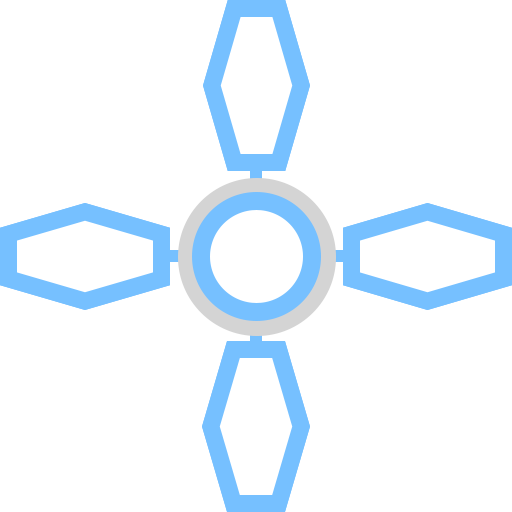
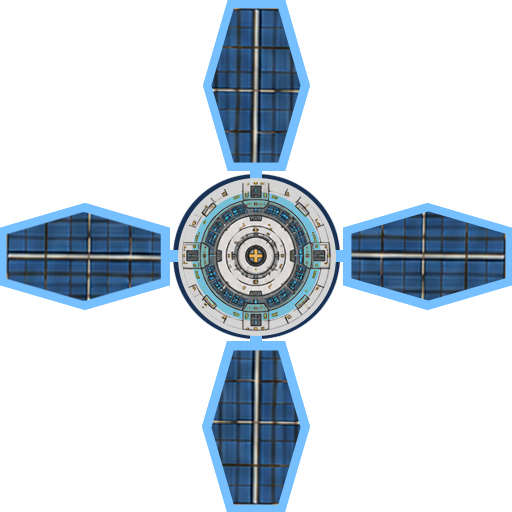
added new graphics, fixed bugs

Changed region(s): [[0.0, 0.0, 1.0, 1.0]]

diff --git a/src/game.py b/src/game.py
@@ -16,8 +16,10 @@ BG_COLOR = (8, 12, 24)
 TEXT_COLOR = (230, 238, 255)
 MUTED_TEXT = (138, 150, 178)
 ACCENT = (72, 209, 204)
+LOCKED_SELECTED = (245, 203, 92)
 STARTING_LIVES = 3
 PLAYER_SHIELD_MAX_CHARGES = 3
+DEFAULT_POD = {"color": "blue", "type": "standard", "upgrades": []}
 
 BASE_DIR = Path(__file__).resolve().parent
 PLAYERS_PATH = BASE_DIR.parent / "players.json"
@@ -38,6 +40,22 @@ LESSONS = [
 
 def draw_text(surface, text, font, color, pos):
     render_inline_text(surface, text, font, color, pos)
+
+
+def draw_scrollbar(surface, track_rect, total_items, visible_items, first_visible):
+    if total_items <= visible_items:
+        return
+
+    pygame.draw.rect(surface, (18, 27, 48), track_rect, border_radius=4)
+    pygame.draw.rect(surface, (43, 57, 89), track_rect, 1, border_radius=4)
+
+    visible_ratio = visible_items / total_items
+    thumb_height = max(28, int(track_rect.height * visible_ratio))
+    max_first_visible = max(1, total_items - visible_items)
+    travel = track_rect.height - thumb_height
+    thumb_y = track_rect.y + int(travel * first_visible / max_first_visible)
+    thumb_rect = pygame.Rect(track_rect.x + 2, thumb_y, track_rect.width - 4, thumb_height)
+    pygame.draw.rect(surface, ACCENT, thumb_rect, border_radius=4)
 
 
 def load_players():
@@ -74,12 +92,16 @@ def load_players():
         if not isinstance(shield_charges, int):
             shield_charges = 0
         players.append(
-            {
-                "name": name[:24],
-                "completed_lessons": completed_lessons,
-                "lives": max(1, lives),
-                "shield_charges": max(0, min(PLAYER_SHIELD_MAX_CHARGES, shield_charges)),
-            }
+            create_player_record(
+                name[:24],
+                completed_lessons=completed_lessons,
+                lives=max(1, lives),
+                shield_charges=max(0, min(PLAYER_SHIELD_MAX_CHARGES, shield_charges)),
+                lifetime_score=item.get("lifetime_score", 0),
+                achievements=item.get("achievements", []),
+                credits=item.get("credits", 0),
+                pod=item.get("pod", {}),
+            )
         )
         seen_names.add(name.lower())
     return players
@@ -87,6 +109,50 @@ def load_players():
 
 def save_players(players):
     PLAYERS_PATH.write_text(json.dumps(players, indent=2), encoding="utf-8")
+
+
+def create_player_record(
+    name,
+    completed_lessons=None,
+    lives=STARTING_LIVES,
+    shield_charges=0,
+    lifetime_score=0,
+    achievements=None,
+    credits=0,
+    pod=None,
+):
+    if not isinstance(lifetime_score, int):
+        lifetime_score = 0
+    if not isinstance(credits, int):
+        credits = 0
+    if not isinstance(achievements, list):
+        achievements = []
+
+    pod = pod if isinstance(pod, dict) else {}
+    pod_color = pod.get("color", DEFAULT_POD["color"])
+    pod_type = pod.get("type", DEFAULT_POD["type"])
+    pod_upgrades = pod.get("upgrades", [])
+    if not isinstance(pod_color, str) or not pod_color.strip():
+        pod_color = DEFAULT_POD["color"]
+    if not isinstance(pod_type, str) or not pod_type.strip():
+        pod_type = DEFAULT_POD["type"]
+    if not isinstance(pod_upgrades, list):
+        pod_upgrades = []
+
+    return {
+        "name": name,
+        "completed_lessons": completed_lessons or [],
+        "lives": max(1, lives),
+        "shield_charges": max(0, min(PLAYER_SHIELD_MAX_CHARGES, shield_charges)),
+        "lifetime_score": max(0, lifetime_score),
+        "achievements": achievements,
+        "credits": max(0, credits),
+        "pod": {
+            "color": pod_color,
+            "type": pod_type,
+            "upgrades": pod_upgrades,
+        },
+    }
 
 
 def clean_player_name(name):
@@ -177,7 +243,7 @@ def create_player_screen(screen, clock, players):
                     elif any(player["name"].lower() == cleaned.lower() for player in players):
                         message = "That player already exists."
                     else:
-                        player = {"name": cleaned, "completed_lessons": [], "lives": STARTING_LIVES, "shield_charges": 0}
+                        player = create_player_record(cleaned)
                         players.append(player)
                         save_players(players)
                         return player
@@ -364,6 +430,8 @@ def menu_loop(screen, clock, players, player):
         item_gap = 110
         visible_rows = max(1, (height - list_top - 92) // item_gap)
         first_visible = max(0, min(selected - visible_rows + 1, len(LESSONS) - visible_rows))
+        list_height = visible_rows * item_gap - 24
+        list_width = content_width - 24 if len(LESSONS) > visible_rows else content_width
         for index, lesson in enumerate(LESSONS):
             if not first_visible <= index < first_visible + visible_rows:
                 continue
@@ -372,15 +440,30 @@ def menu_loop(screen, clock, players, player):
             is_locked = index >= unlocked_count
             card_color = (20, 32, 58) if is_selected else (13, 22, 42)
             border_color = ACCENT if is_selected else (43, 57, 89)
-            if is_locked:
+            border_width = 2
+            title_color = TEXT_COLOR
+            summary_color = MUTED_TEXT
+            if is_locked and is_selected:
+                card_color = (38, 31, 27)
+                border_color = LOCKED_SELECTED
+                border_width = 3
+                title_color = LOCKED_SELECTED
+                summary_color = (231, 194, 111)
+            elif is_locked:
                 card_color = (11, 16, 30)
                 border_color = (35, 42, 62)
-            pygame.draw.rect(screen, card_color, (content_left, y - 22, content_width, 86), border_radius=8)
-            pygame.draw.rect(screen, border_color, (content_left, y - 22, content_width, 86), 2, border_radius=8)
-            title_color = MUTED_TEXT if is_locked else TEXT_COLOR
+                title_color = MUTED_TEXT
+            card_rect = pygame.Rect(content_left, y - 22, list_width, 86)
+            pygame.draw.rect(screen, card_color, card_rect, border_radius=8)
+            pygame.draw.rect(screen, border_color, card_rect, border_width, border_radius=8)
+            if is_selected:
+                pygame.draw.rect(screen, border_color, (card_rect.x, card_rect.y + 10, 5, card_rect.height - 20), border_radius=3)
             summary = "Locked: complete the previous lesson first." if is_locked else lesson["summary"]
             draw_text(screen, lesson["title"], item_font, title_color, (x, y - 4))
-            draw_text(screen, summary, body_font, MUTED_TEXT, (x, y + 36))
+            draw_text(screen, summary, body_font, summary_color, (x, y + 36))
+
+        scrollbar_rect = pygame.Rect(content_left + content_width - 12, list_top - 22, 8, list_height)
+        draw_scrollbar(screen, scrollbar_rect, len(LESSONS), visible_rows, first_visible)
 
         draw_text(screen, "Esc: Players  |  F11: Max size  |  Q: Quit", small_font, MUTED_TEXT, (text_left + 4, height - 58))
         pygame.display.flip()

diff --git a/src/lessons/mission_engine.py b/src/lessons/mission_engine.py
@@ -25,15 +25,16 @@ SHOT_TRAIL_COLOR = (92, 190, 255)
 SHIP_COLOR = (112, 170, 255)
 EXPLOSION_COLOR = (255, 218, 125)
 POD_ROTATION_SECONDS = 15
-POD_IMAGE_SIZE = 163
-PLAYER_COLLISION_RADIUS = 29
-TURRET_IMAGE_SIZE = 86
+POD_IMAGE_SIZE = 204
+PLAYER_COLLISION_RADIUS = 36
+TURRET_IMAGE_SIZE = 108
 DRONE_PIXELS_PER_ROTATION = 60
 TURRET_TURN_SPEED = 13
 TURRET_FIRE_ANGLE_THRESHOLD = 0.08
 TURRET_FIRE_DELAY_MS = 90
 SHOT_IMAGE_SIZE = 22
 SHOT_TRAIL_INTERVAL_MS = 18
+SHOT_ROTATIONS_PER_SECOND = 2
 
 START_SPAWN_INTERVAL_MS = 6000
 MIN_SPAWN_INTERVAL_MS = 2000
@@ -126,6 +127,7 @@ class Bullet:
     vel: pygame.Vector2
     target: Drone | None
     next_trail_time: int = 0
+    rotation: float = 0
 
 
 @dataclass
@@ -135,6 +137,7 @@ class MegaShot:
     charge_level: int
     target: object | None
     radius: int = 10
+    rotation: float = 0
 
 
 @dataclass
@@ -845,12 +848,26 @@ def draw_shot_trails(screen, shot_trails):
 def draw_bullet(screen, bullet, shot_image=None):
     if shot_image is not None:
         image = shot_image
+        angle = math.degrees(bullet.rotation)
         if bullet.vel.length_squared() > 0:
-            angle = math.degrees(math.atan2(-bullet.vel.y, bullet.vel.x))
-            image = pygame.transform.rotozoom(shot_image, angle, 1.0)
+            angle += math.degrees(math.atan2(-bullet.vel.y, bullet.vel.x))
+        image = pygame.transform.rotozoom(shot_image, angle, 1.0)
         screen.blit(image, image.get_rect(center=bullet.pos))
     else:
         pygame.draw.circle(screen, BULLET_COLOR, bullet.pos, 5)
+
+
+def draw_mega_shot(screen, mega_shot, shot_image=None):
+    if shot_image is not None:
+        angle = math.degrees(mega_shot.rotation)
+        if mega_shot.vel.length_squared() > 0:
+            angle += math.degrees(math.atan2(-mega_shot.vel.y, mega_shot.vel.x))
+        scale = max(1.0, (mega_shot.radius * 2) / SHOT_IMAGE_SIZE)
+        image = pygame.transform.rotozoom(shot_image, angle, scale)
+        screen.blit(image, image.get_rect(center=mega_shot.pos))
+    else:
+        pygame.draw.circle(screen, MEGA_SHOT_COLOR, mega_shot.pos, mega_shot.radius)
+        pygame.draw.circle(screen, (255, 255, 255), mega_shot.pos, mega_shot.radius, 2)
 
 
 def draw_ship(screen, turret_angle, pod_rotation, turret_image=None, pod_image=None):
@@ -1274,12 +1291,22 @@ class MissionEngine:
         self.player["lives"] = max(1, self.lives)
         self.player["shield_charges"] = max(0, min(PLAYER_SHIELD_MAX_CHARGES, self.shield_charges))
 
+    def _add_lifetime_score(self):
+        if self.player is None:
+            return
+        lifetime_score = self.player.get("lifetime_score", 0)
+        if not isinstance(lifetime_score, int):
+            lifetime_score = 0
+        self.player["lifetime_score"] = max(0, lifetime_score) + self.score
+
     def _finish(self, result):
         self._save_player_resources()
         return result
 
     def _show_end_screen(self, won):
         self._save_player_resources()
+        if won:
+            self._add_lifetime_score()
         return draw_end_screen(self.screen, self.clock, won, self.destroyed, self.drone_target, self.score)
 
     def _begin_frame(self):
@@ -1362,8 +1389,7 @@ class MissionEngine:
             draw_bullet(self.screen, bullet, self.shot_image)
 
         for mega_shot in self.mega_shots:
-            pygame.draw.circle(self.screen, MEGA_SHOT_COLOR, mega_shot.pos, mega_shot.radius)
-            pygame.draw.circle(self.screen, (255, 255, 255), mega_shot.pos, mega_shot.radius, 2)
+            draw_mega_shot(self.screen, mega_shot, self.shot_image)
 
         draw_power_up(self.screen, self.power_up, now)
         draw_final_boss(self.screen, self.final_boss, self.final_boss_image)
@@ -1500,12 +1526,14 @@ class MissionEngine:
                     if event.key == pygame.K_F11:
                         self.screen = toggle_fullscreen()
                     if event.key == pygame.K_ESCAPE:
+                        pygame.mouse.set_visible(True)
                         if self.bg_music_channel is not None:
                             self.bg_music_channel.pause()
                         if pygame.mixer.get_init():
                             pygame.mixer.music.pause()
                         pause_result = pause_menu(self.screen, self.clock)
                         if pause_result == "resume":
+                            pygame.mouse.set_visible(False)
                             if self.bg_music_channel is not None:
                                 self.bg_music_channel.unpause()
                             if pygame.mixer.get_init():
@@ -1581,6 +1609,7 @@ class MissionEngine:
                 return result
 
             for bullet in self.bullets[:]:
+                bullet.rotation = (bullet.rotation + math.tau * SHOT_ROTATIONS_PER_SECOND * dt) % math.tau
                 if bullet.target not in self.drones:
                     bullet.target = None
                     add_shot_trail(self.shot_trails, bullet, now)
@@ -1624,6 +1653,7 @@ class MissionEngine:
                 bullet.pos += bullet.vel * dt
 
             for mega_shot in self.mega_shots[:]:
+                mega_shot.rotation = (mega_shot.rotation + math.tau * SHOT_ROTATIONS_PER_SECOND * dt) % math.tau
                 if isinstance(mega_shot.target, Drone) and mega_shot.target not in self.drones:
                     mega_shot.target = None
 
@@ -1687,4 +1717,9 @@ class MissionEngine:
 
 
 def run_mission(screen, clock, base_dir, lesson_dir_name, valid_keys, player=None):
-    return MissionEngine(screen, clock, base_dir, lesson_dir_name, valid_keys, player).run()
+    previous_mouse_visible = pygame.mouse.get_visible()
+    pygame.mouse.set_visible(False)
+    try:
+        return MissionEngine(screen, clock, base_dir, lesson_dir_name, valid_keys, player).run()
+    finally:
+        pygame.mouse.set_visible(previous_mouse_visible)